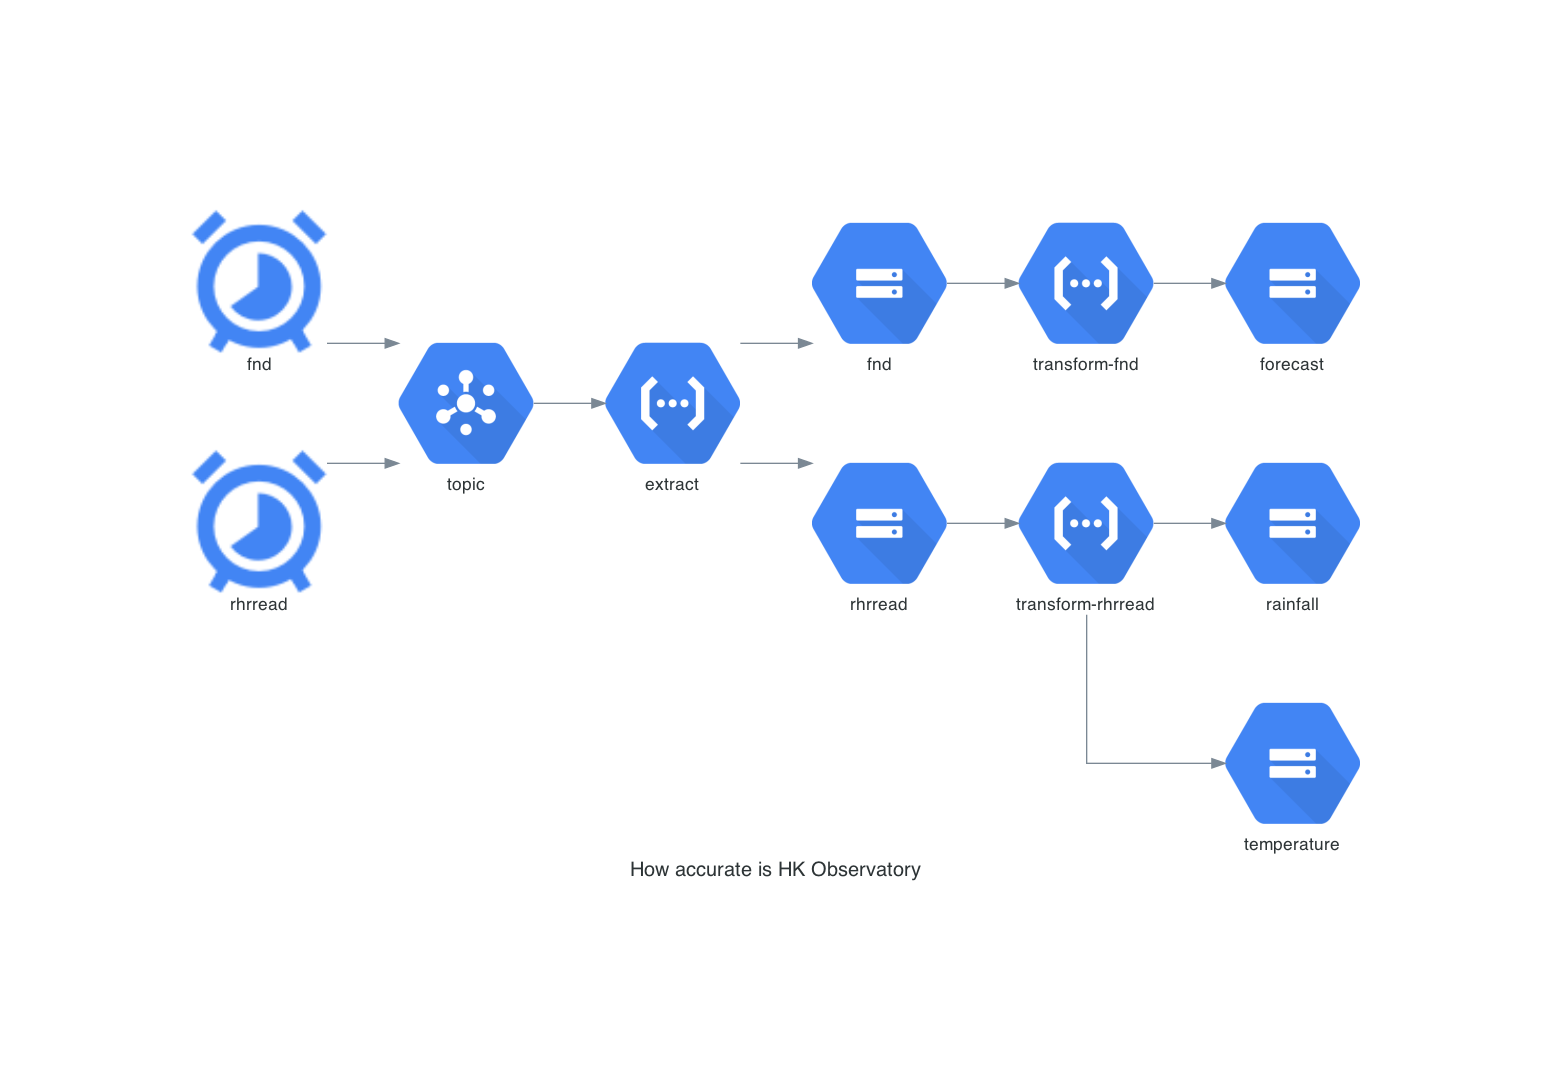
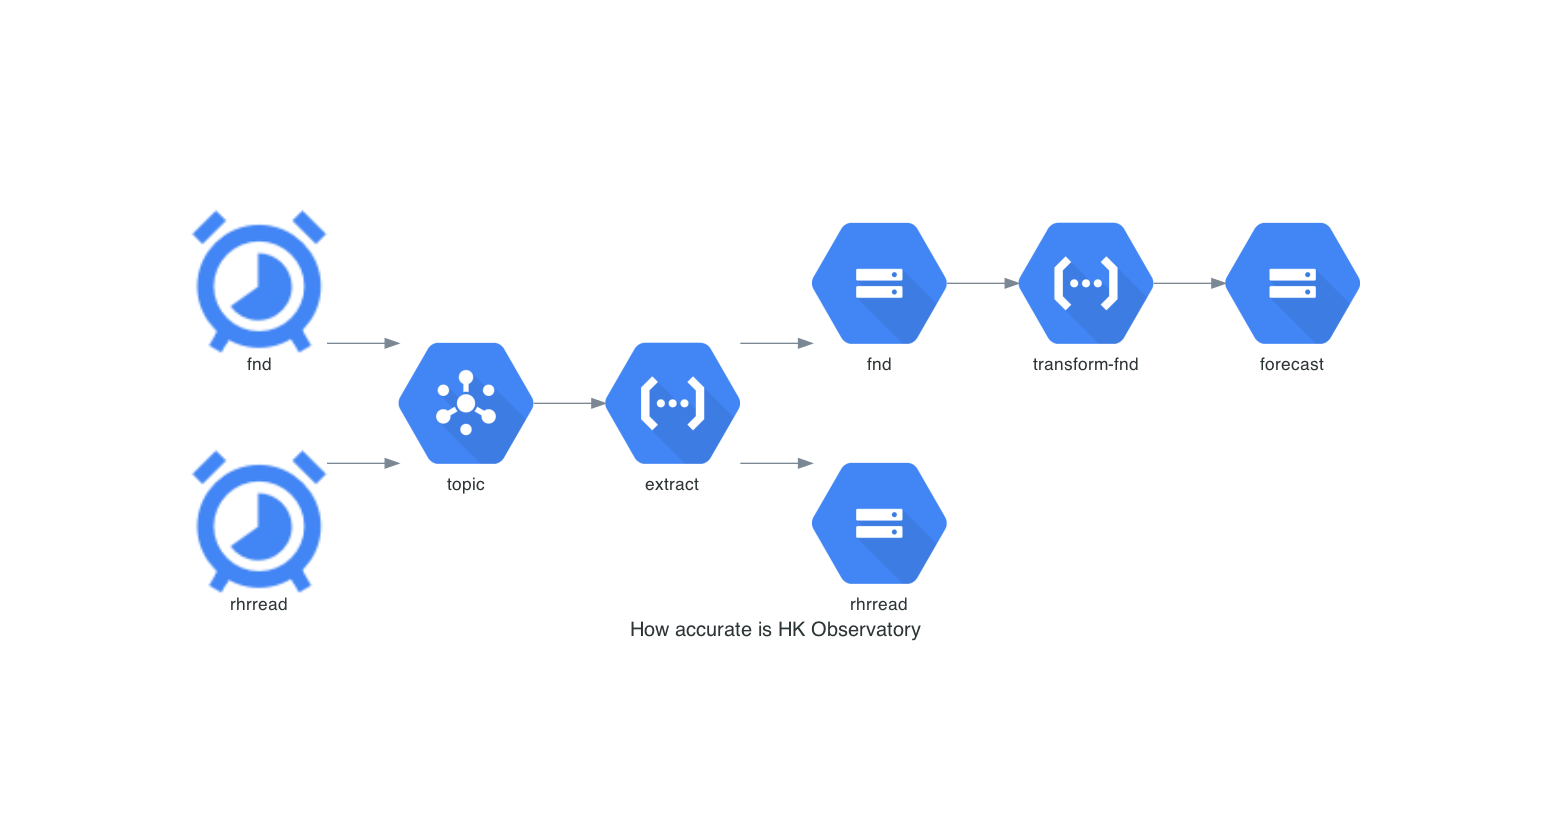
Add load function

diff --git a/diagram.py b/diagram.py
@@ -5,15 +5,28 @@ from diagrams.gcp.devtools import Scheduler
 from diagrams.gcp.storage import Storage
 
 with Diagram("How accurate is HK Observatory"):
-    extract = (
-        [Scheduler("fnd"), Scheduler("rhrread")]
-        >> Pubsub("topic")
-        >> Functions("extract")
+    extract = Functions("extract")
+    load = Functions("load")
+
+    [Scheduler("fnd"), Scheduler("rhrread")] >> Pubsub("topic") >> extract
+
+    (
+        extract
+        >> Storage("fnd")
+        >> Functions("transform-fnd")
+        >> Storage("forecast")
+        >> load
     )
-    (extract >> Storage("fnd") >> Functions("transform-fnd") >> Storage("forecast"))
     (
         extract
         >> Storage("rhrread")
         >> Functions("transform-rhrread")
-        >> [Storage("rainfall"), Storage("temperature")]
+        >> [Storage("temperature"), Storage("rainfall")]
+        >> load
     )
+
+    load >> [
+        Bigquery("forecast"),
+        Bigquery("temperature"),
+        Bigquery("rainfall"),
+    ]

diff --git a/infrastructure/modules/storage/gcf/extract/main.py b/infrastructure/modules/storage/gcf/extract/main.py
@@ -1,22 +1,17 @@
 import functions_framework
-import os
 import requests
 from google.cloud import storage
 
 
 @functions_framework.cloud_event
 def extract(cloud_event):
-    bucket_names = {
-        "fnd": os.environ["FND_BUCKET_NAME"],
-        "rhrread": os.environ["RHRREAD_BUCKET_NAME"],
-    }
-    endpoint = cloud_event.data["message"]["attributes"]["endpoint"]
+    attributes = cloud_event.data["message"]["attributes"]
     response = requests.get(
         "https://data.weather.gov.hk/weatherAPI/opendata/weather.php",
-        params={"dataType": endpoint, "lang": "en"},
+        params={"dataType": attributes["endpoint"], "lang": "en"},
     )
     storage_client = storage.Client()
-    bucket = storage_client.bucket(bucket_names[endpoint])
+    bucket = storage_client.bucket(attributes["bucket_name"])
     file_name = f"{response.json()['updateTime']}.json"
     blob = bucket.blob(file_name)
     blob.upload_from_string(response.content)

diff --git a/infrastructure/modules/storage/gcf/load/main.py b/infrastructure/modules/storage/gcf/load/main.py
@@ -1,0 +1,22 @@
+import functions_framework
+import os
+from google.cloud import bigquery
+
+
+@functions_framework.cloud_event
+def load(cloud_event):
+    data = cloud_event.data
+    client = bigquery.Client()
+
+    job_config = bigquery.LoadJobConfig(
+        autodetect=True,
+        source_format=bigquery.SourceFormat.NEWLINE_DELIMITED_JSON,
+    )
+
+    load_job = client.load_table_from_uri(
+        f"gs://{data['bucket']}/{data['name']}",
+        os.environ["DESTINATION"],
+        job_config=job_config,
+    )
+
+    load_job.result()

diff --git a/infrastructure/modules/storage/gcf/transform-fnd/main.py b/infrastructure/modules/storage/gcf/transform-fnd/main.py
@@ -6,7 +6,7 @@ from google.cloud import storage
 
 def transform_forecast(fnd_str):
     fnd_dict = json.loads(fnd_str)
-    update_time = fnd_dict["updateTime"]
+    update_time = fnd_dict["updateTime"][:-6]
     forecasts = fnd_dict["weatherForecast"]
     for forecast in forecasts:
         forecast[
